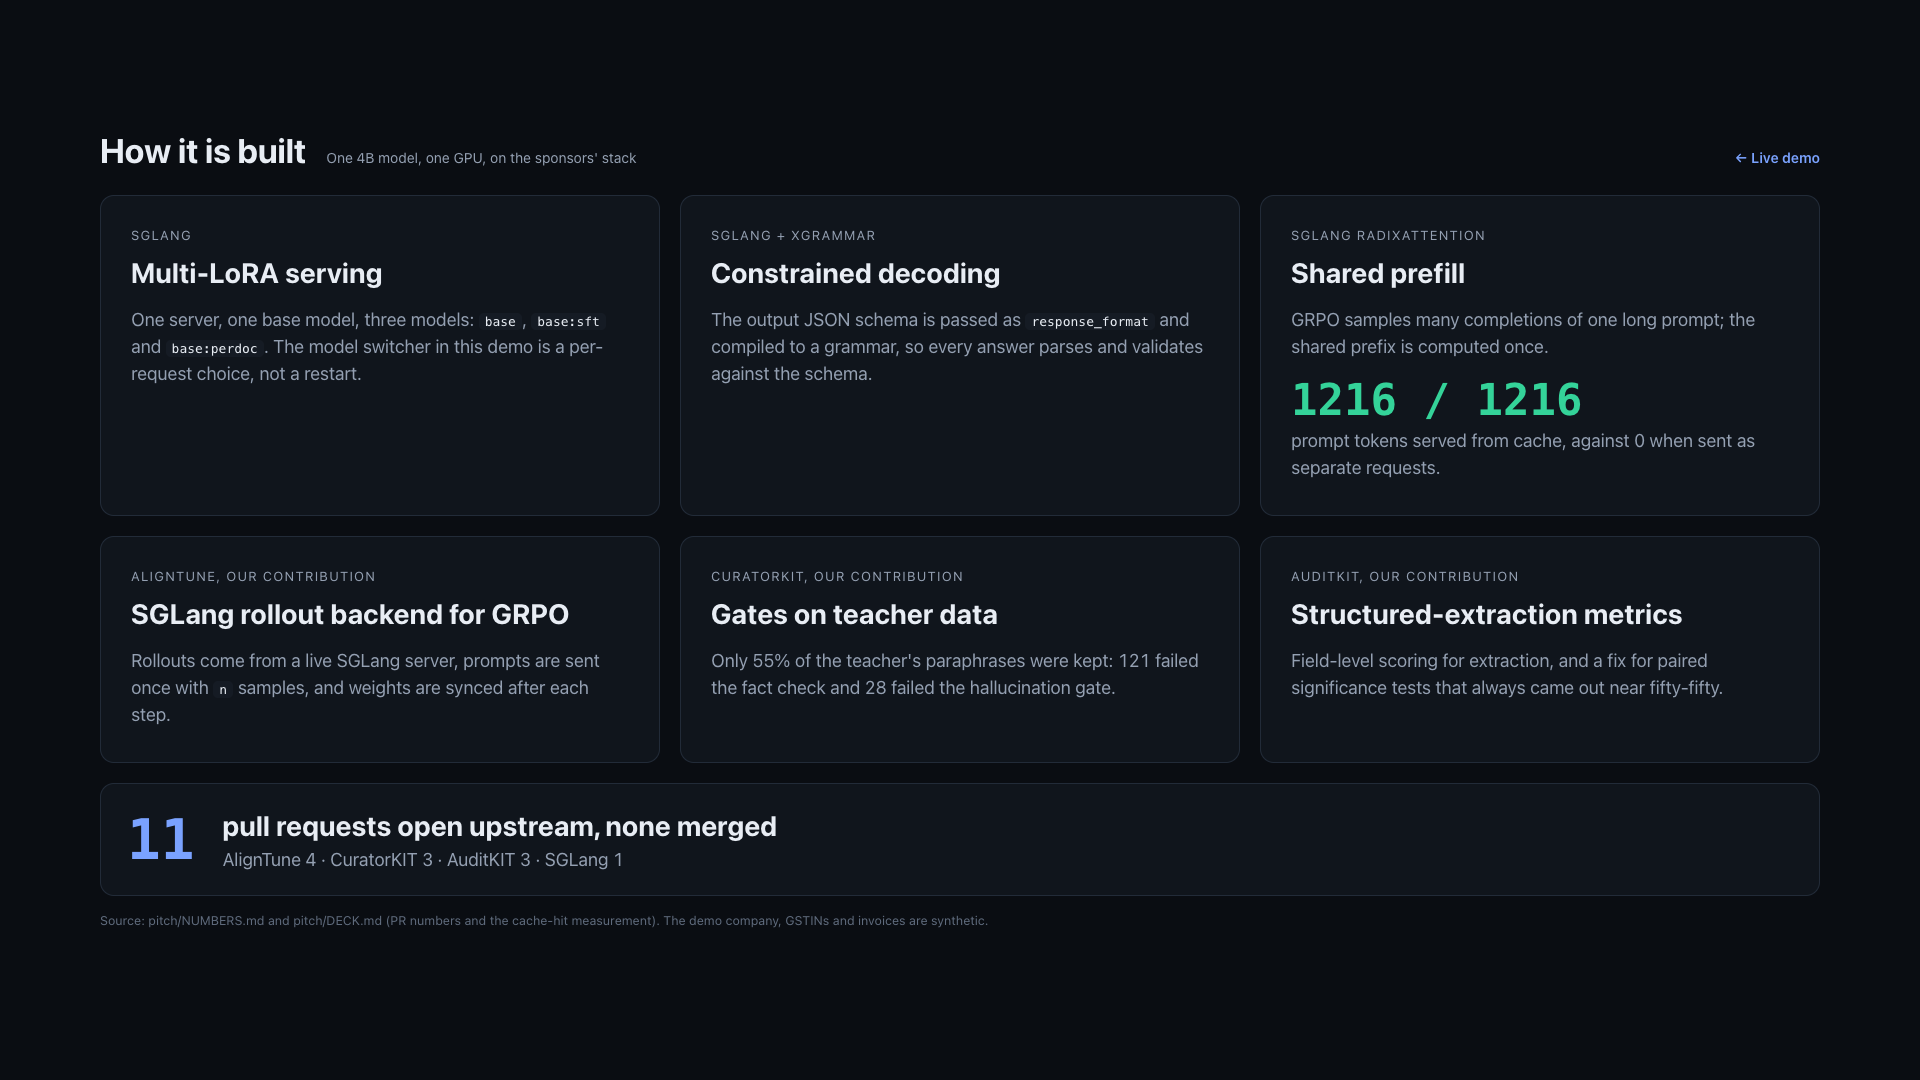
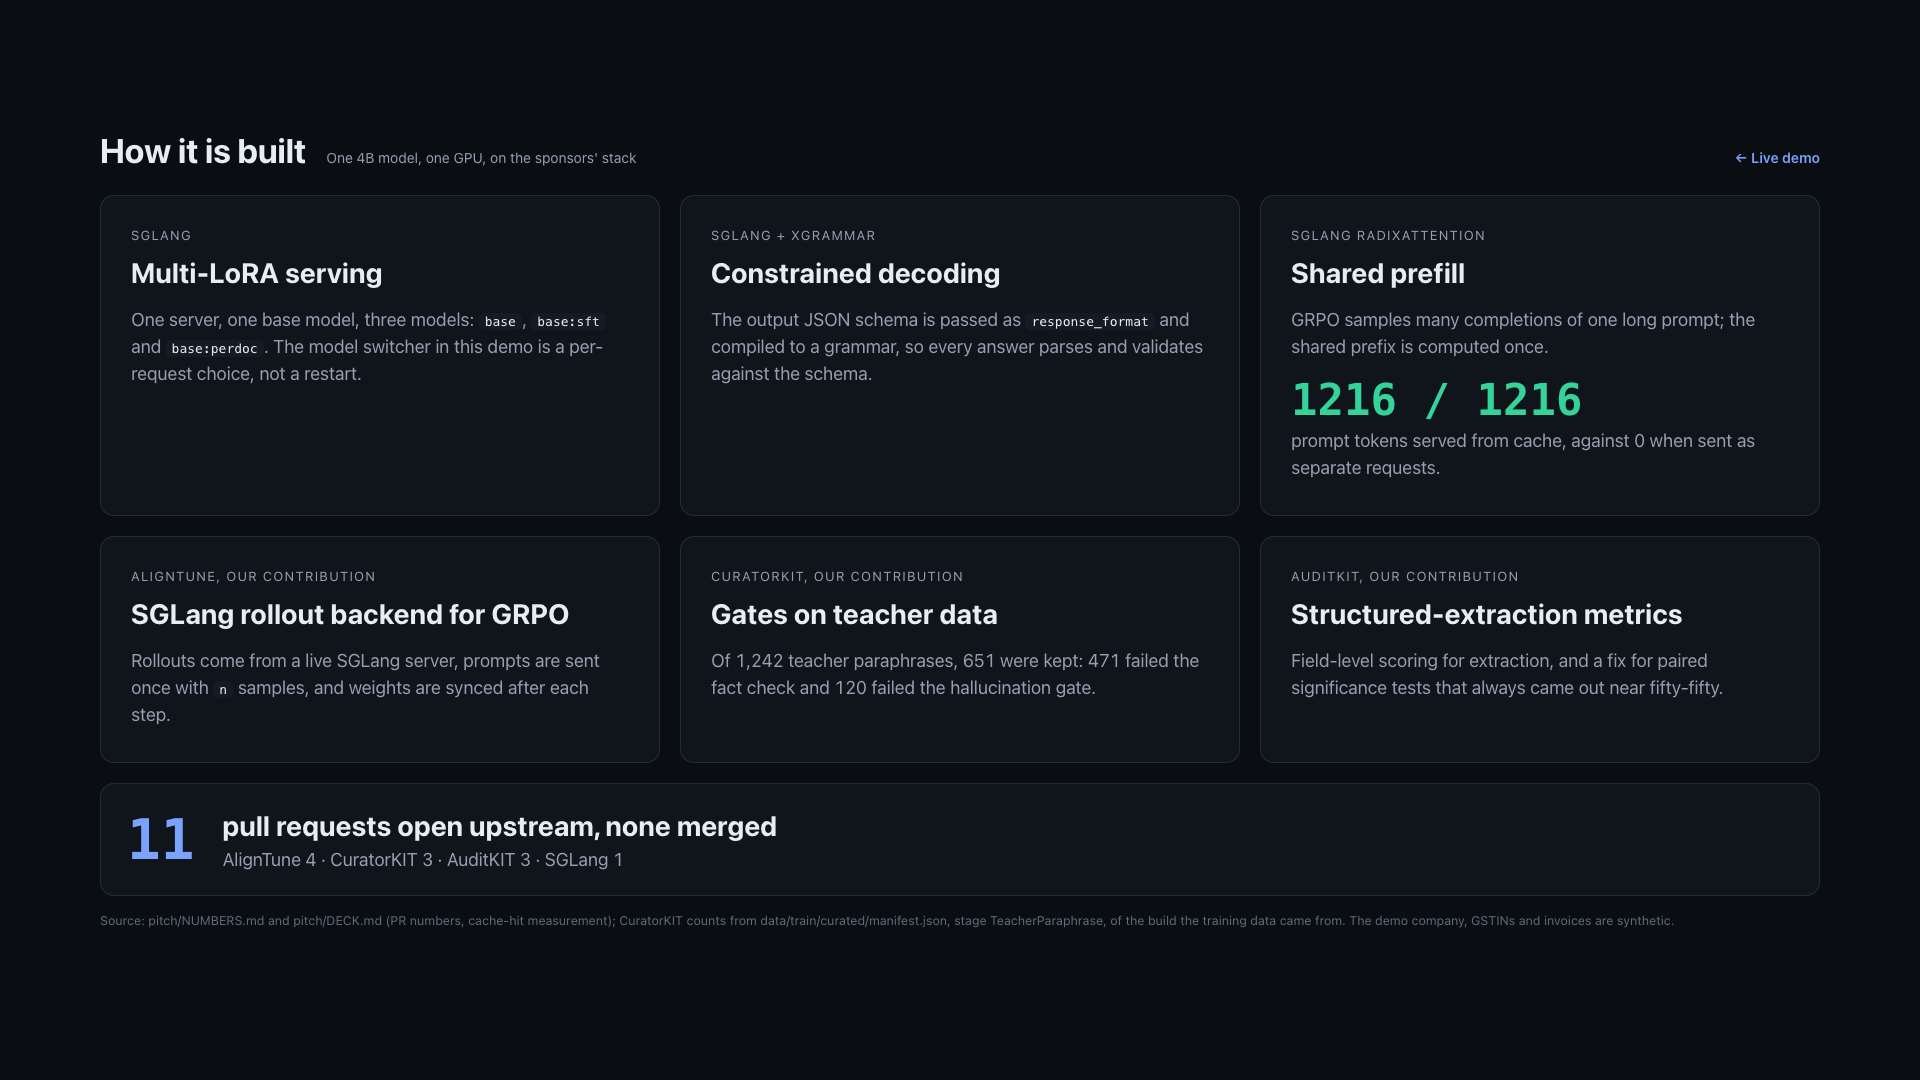
fix(demo): CuratorKIT tile uses the curated build's counts (651 of 1242 kept, 471 fact-check, 120 hallucination) from manifest.json

Changed region(s): [[0.375, 0.5806, 0.625, 0.6417], [0.3438, 0.825, 0.5312, 0.8556], [0.25, 0.825, 0.3125, 0.8556]]

diff --git a/demo/static/built.html b/demo/static/built.html
@@ -45,12 +45,12 @@
     <section class="card"><p class="tag">AlignTune, our contribution</p><h2>SGLang rollout backend for GRPO</h2>
       <p>Rollouts come from a live SGLang server, prompts are sent once with <code>n</code> samples, and weights are synced after each step.</p></section>
     <section class="card"><p class="tag">CuratorKIT, our contribution</p><h2>Gates on teacher data</h2>
-      <p>Only 55% of the teacher's paraphrases were kept: 121 failed the fact check and 28 failed the hallucination gate.</p></section>
+      <p>Of 1,242 teacher paraphrases, 651 were kept: 471 failed the fact check and 120 failed the hallucination gate.</p></section>
     <section class="card"><p class="tag">AuditKIT, our contribution</p><h2>Structured-extraction metrics</h2>
       <p>Field-level scoring for extraction, and a fix for paired significance tests that always came out near fifty-fifty.</p></section>
   </div>
   <div class="prs"><span class="n">11</span><div><b>pull requests open upstream, none merged</b><br><span>AlignTune 4 &middot; CuratorKIT 3 &middot; AuditKIT 3 &middot; SGLang 1</span></div></div>
-  <p class="src">Source: pitch/DECK.md (PR numbers and the cache-hit measurement). The demo company, GSTINs and invoices are synthetic.</p>
+  <p class="src">Source: pitch/DECK.md (PR numbers, cache-hit measurement); CuratorKIT counts from data/train/curated/manifest.json, stage TeacherParaphrase, of the build the training data came from. The demo company, GSTINs and invoices are synthetic.</p>
 </div>
 </body>
 </html>

diff --git a/demo/VIDEO_PLAN.md b/demo/VIDEO_PLAN.md
@@ -78,7 +78,7 @@ Do not use the medium case for this contrast: there the end-to-end SFT run (9/13
 ### Shot 6 - How it is built (2:00 to 2:20)
 
 Screen: the static slide `http://localhost:8765/built` (screenshot: `screenshots/21-built.png`), no recording needed.
-Six tiles, in this order, about 3 s each: SGLang multi-LoRA serving (base, base:sft, base:perdoc on one server); XGrammar constrained decoding (schema as `response_format`); RadixAttention shared prefill (1216 of 1216 prompt tokens cached, against 0 as separate requests); the AlignTune SGLang rollout backend for GRPO; CuratorKIT gates (55% of teacher paraphrases kept); AuditKIT structured-extraction metrics.
+Six tiles, in this order, about 3 s each: SGLang multi-LoRA serving (base, base:sft, base:perdoc on one server); XGrammar constrained decoding (schema as `response_format`); RadixAttention shared prefill (1216 of 1216 prompt tokens cached, against 0 as separate requests); the AlignTune SGLang rollout backend for GRPO; CuratorKIT gates (651 of 1,242 teacher paraphrases kept: 471 failed the fact check, 120 the hallucination gate); AuditKIT structured-extraction metrics.
 End on the badge for 3 s: "11 pull requests open upstream, none merged" (AlignTune 4, CuratorKIT 3, AuditKIT 3, SGLang 1).
 
 VO prompt: one SGLang server serves the base model and two LoRA adapters, switched per request; XGrammar makes the JSON always valid; RadixAttention shares the prompt prefill, which is what made GRPO rollouts cheap enough, and we built that as the AlignTune SGLang backend; CuratorKIT filtered the teacher's data and AuditKIT scored the extraction; eleven pull requests are open upstream and none is merged yet, and we say so.
